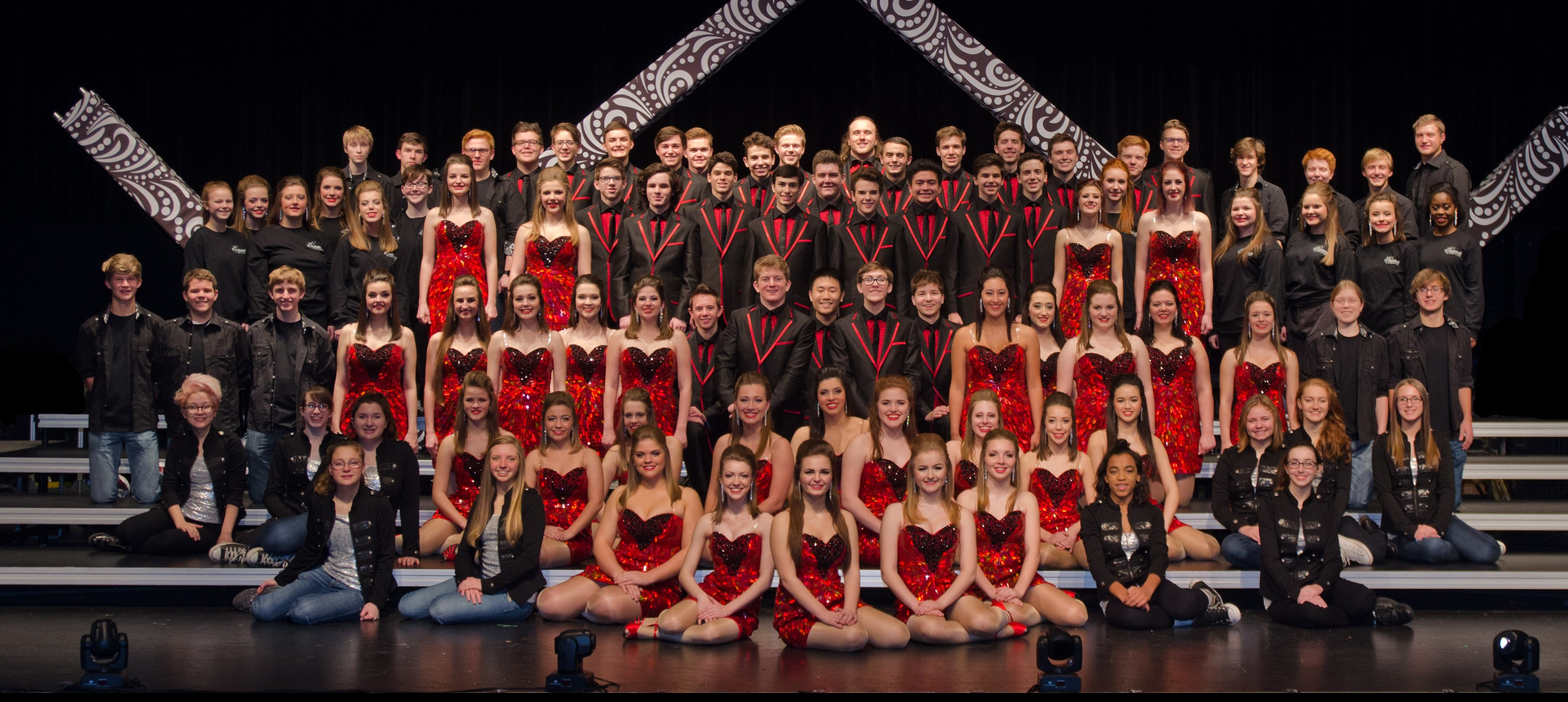
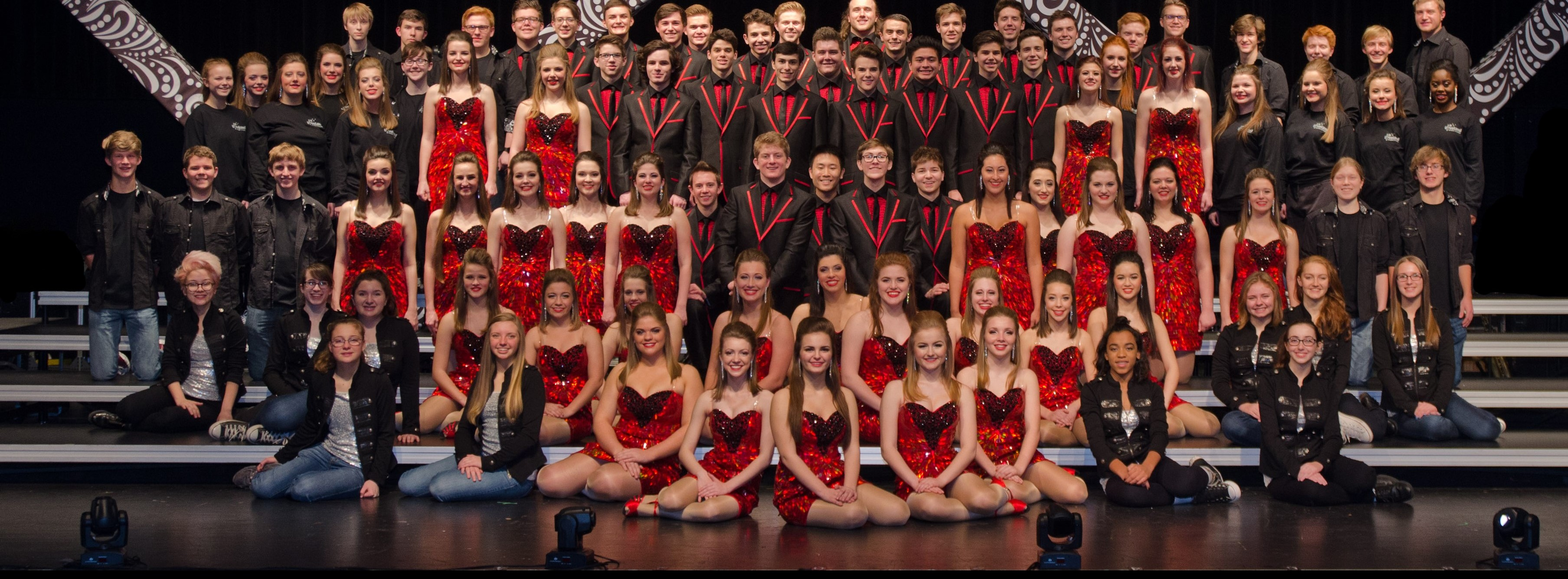
Fixed width on picture

diff --git a/government/index.html b/government/index.html
@@ -90,7 +90,7 @@
 
         <div class="carousel-inner" role="listbox">
             <div class="item active">
-                <img class="first-slide" src="img/choir.jpg" alt="First slide">
+                <img class="first-slide" src="img/choir.jpg" style="position: absolute; width: 800px; height: auto;" alt="First slide">
                 <div class="container">
                     <div class="carousel-caption">
                         <h1></h1>
